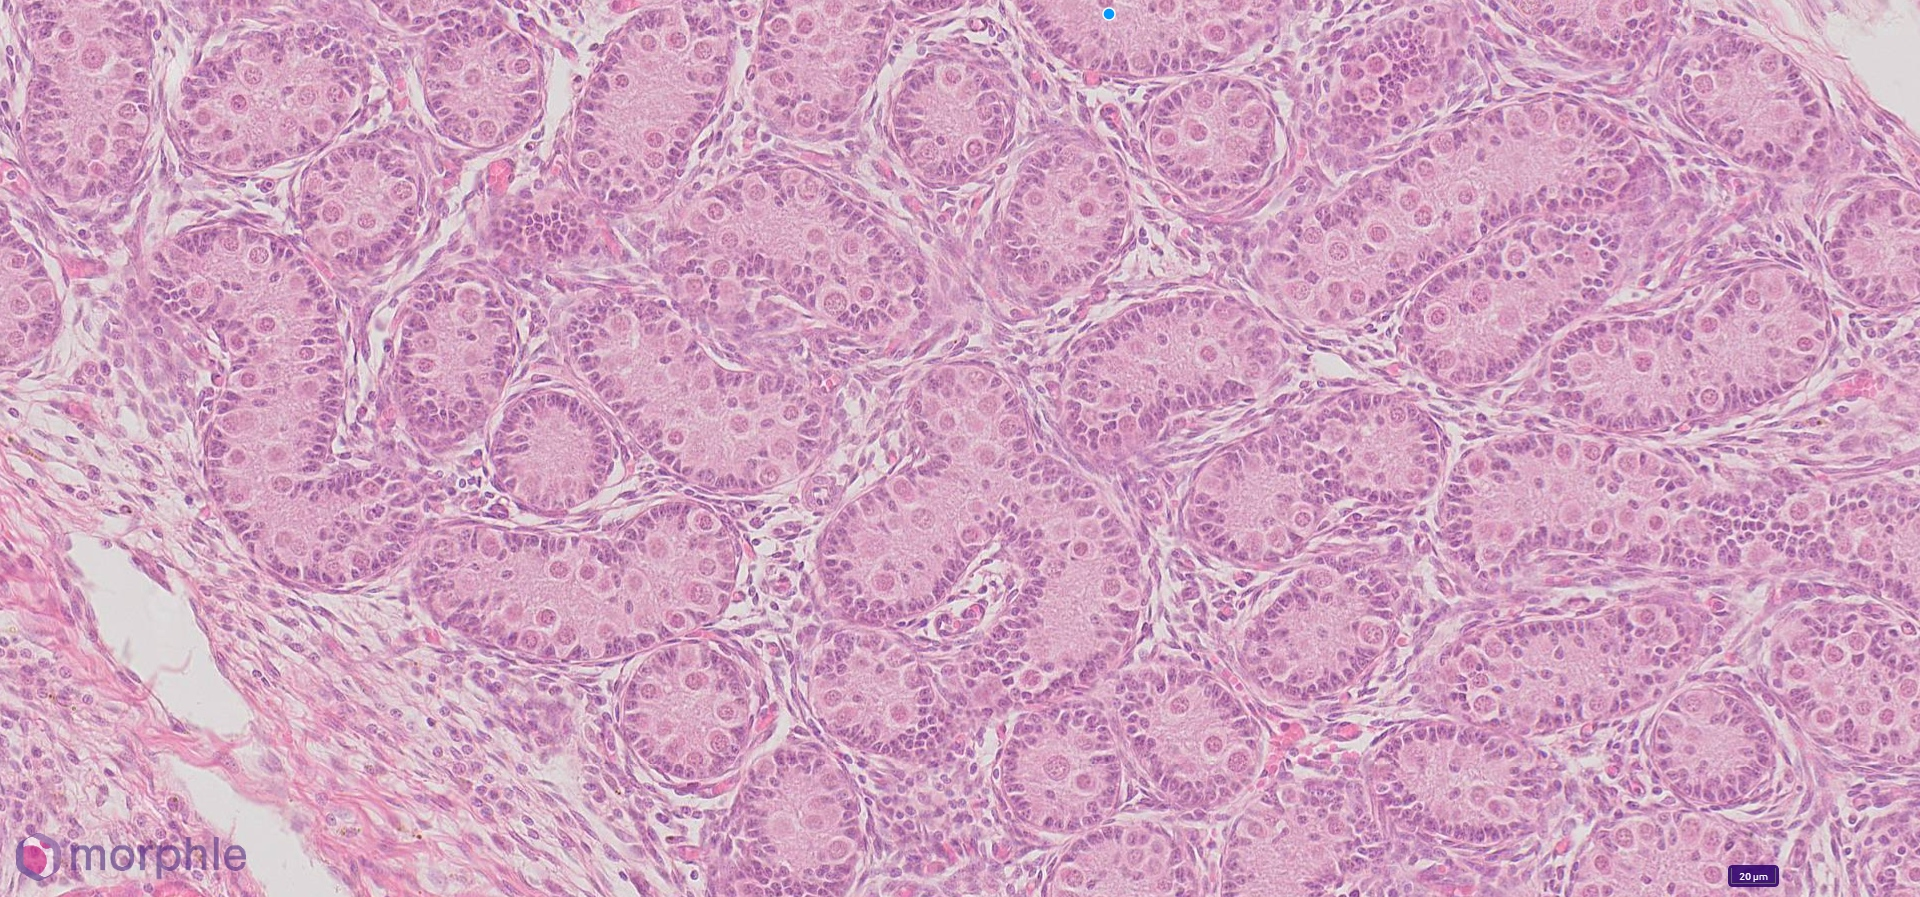
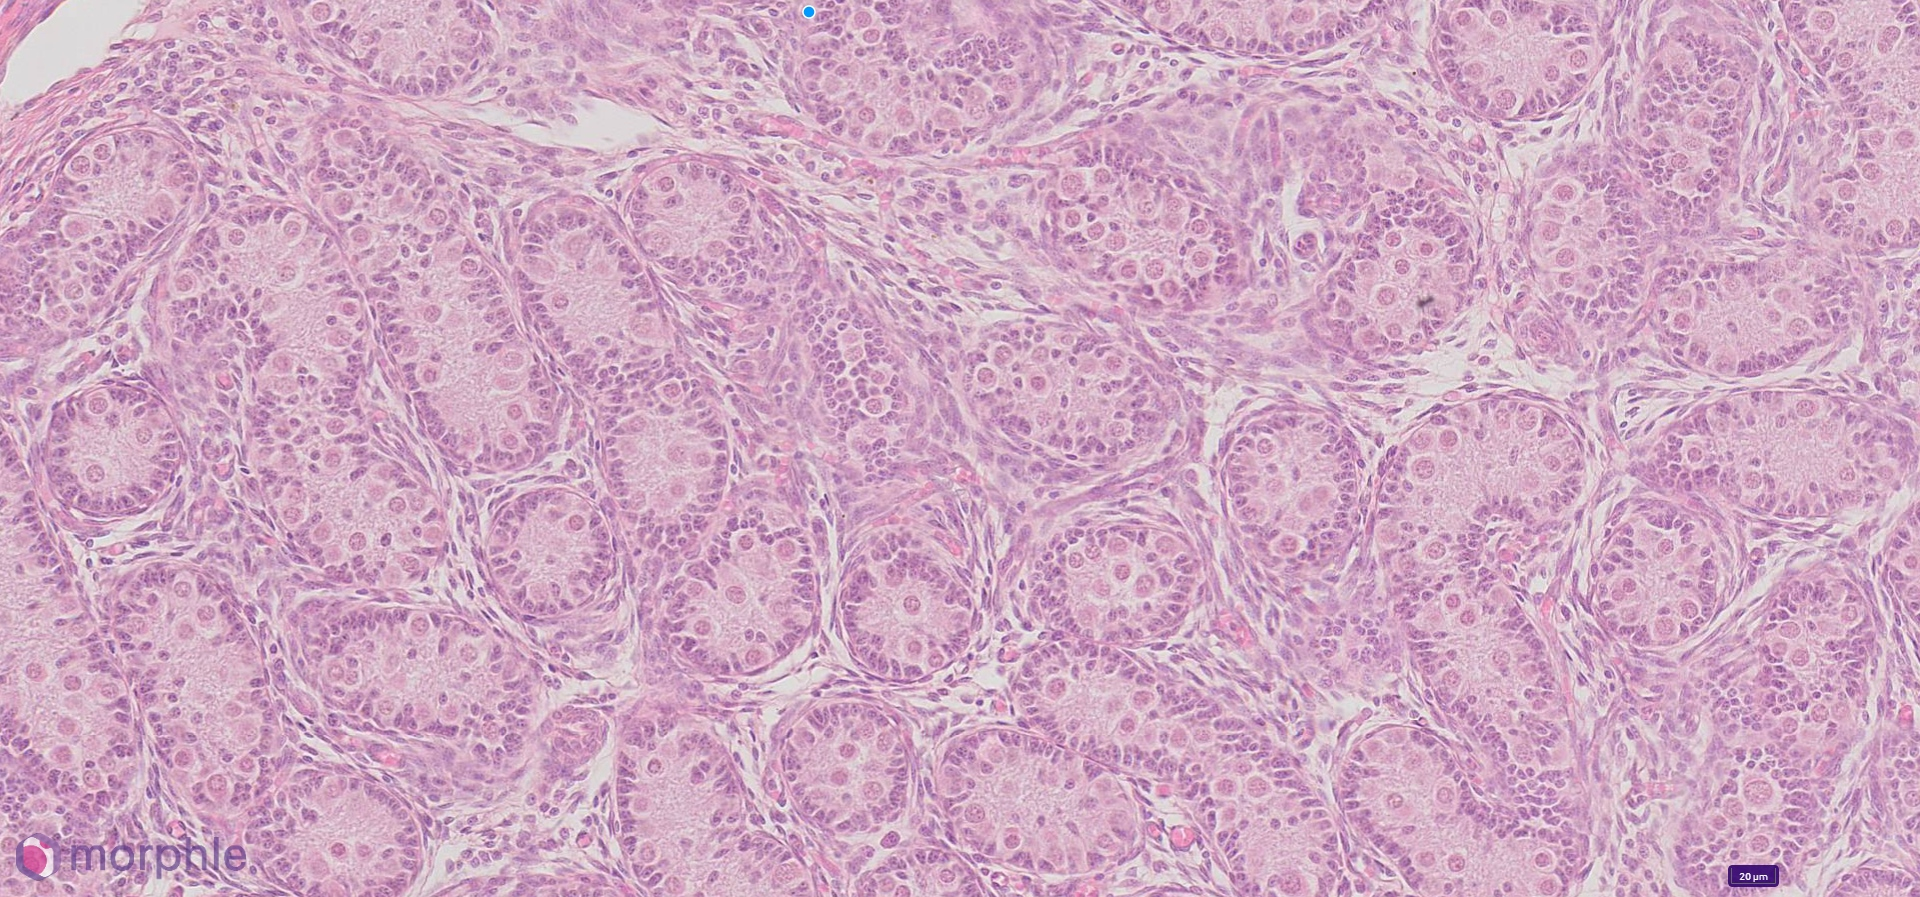
add multiple reference image support

diff --git a/persam_f_multi_obj.py b/persam_f_multi_obj.py
@@ -29,7 +29,7 @@ def get_arguments():
     parser.add_argument('--train_epoch_outside', type=int, default=1)
     parser.add_argument('--train_epoch_inside', type=int, default=200)
     parser.add_argument('--log_epoch', type=int, default=200)
-    parser.add_argument('--training_percentage', type=float, default=0.5)
+    parser.add_argument('--training_size', type=int, default=1)
     
     parser.add_argument('--max_objects', type=int, default=10)
     parser.add_argument('--iou_threshold', type=float, default=0.8)
@@ -52,7 +52,7 @@ def main():
     if not os.path.exists('./outputs/'):
         os.mkdir('./outputs/')
     
-    for obj_name in os.listdir(images_path):
+    for obj_name in [f for f in os.listdir(images_path) if not f.startswith('.')]:
         persam_f(args, obj_name, images_path, masks_path, output_path)
 
 
@@ -74,12 +74,12 @@ def persam_f(args, obj_name, images_path, masks_path, output_path):
         param.requires_grad = False
     predictor = SamPredictor(sam)
 
+    target_feats_list = [] # store target features of training examples
     print("\n------------> Segment " + obj_name)
     for i in tqdm(range(args.train_epoch_outside)):
         output_path = os.path.join(output_path, obj_name)
         os.makedirs(output_path, exist_ok=True)
-        training_size = int(len(os.listdir(os.path.join(images_path, obj_name)))  * args.training_percentage)
-        for ref_idx in range(training_size):
+        for ref_idx in range(args.training_size):
             # Path preparation
             ref_image_path = os.path.join(images_path, obj_name, '{:02}.jpg'.format(ref_idx))
             ref_mask_path = os.path.join(masks_path, obj_name, '{:02}.png'.format(ref_idx))
@@ -109,6 +109,8 @@ def persam_f(args, obj_name, images_path, masks_path, output_path):
             target_feat_mean = target_feat.mean(0)
             target_feat_max = torch.max(target_feat, dim=0)[0]
             target_feat = (target_feat_max / 2 + target_feat_mean / 2).unsqueeze(0)
+            
+            target_feats_list.append(target_feat)
 
             # Cosine similarity
             h, w, C = ref_feat.shape
@@ -170,6 +172,9 @@ def persam_f(args, obj_name, images_path, masks_path, output_path):
         print('LR: {:.6f}, Dice_Loss: {:.4f}, Focal_Loss: {:.4f}'.format(current_lr, dice_loss.item(), focal_loss.item()))
 
     print('======> Start Testing')
+    # Average all reference example features to get a "general" target feature embedding
+    target_feat = torch.stack(target_feats_list).mean(0).unsqueeze(0)
+    target_feat = target_feat / target_feat.norm(dim=-1, keepdim=True)
     for test_idx in tqdm(range(len([f for f in os.listdir(test_images_path) if not f.startswith('.')]))):
 
         # Load test image

diff --git a/README.md b/README.md
@@ -19,13 +19,15 @@ datadir/
 |–– Annotations/
 |   |–– Object1/
 |       |–– 00.png
+|       |–– 01.png
 |–– Images/
     |–– Object1/
         |–– 00.jpg
         |–– 01.jpg
+        |–– 02.jpg
         |–– ...
 ```
-Note that only one reference image with annotations needs to be provided (image index 00). Output will include inference on all images in `Images/`.
+Note that only one reference image WITH annotations needs to be provided (image index `00`) to be used as the training example. Output will include inference on all images in `Images/`. In the above example directory, `00` and `01` can be used for training, but `02` is only for testing.
 
 `cellulartestdata` has been provided as a sample.
 
@@ -34,7 +36,7 @@ Note that only one reference image with annotations needs to be provided (image 
 For our use case identifying structures in whole slide images, we use the multi-object segmentation script.
 
 ```bash
-python persam_f_multi_obj.py --data "./cellulartestdata" --max_objects 50 --outdir "celldata"
+python persam_f_multi_obj.py --data "./cellulartestdata" --max_objects 50 --training_size 2 --outdir "celldata"
 ```
 #### Args:
 ```bash
@@ -44,7 +46,12 @@ python persam_f_multi_obj.py --data "./cellulartestdata" --max_objects 50 --outd
 --sam_type <model name>
 --max_objects <max number of objects to segment>
 --iou_threshold <threshold for detecting if a segmentation is a duplicate>
+--training_size <number of training examples>
 ```
+
+*iou_threshold is worth playing with. IoU = intersection area / union area. The algorithm computes this value between a new mask and all old masks, throwing out new masks when the value is over threshold FINISH ME *
+
+*Note that `training_size` is a custom parameter, not part of the original PerSAM. Only works for `persam_f_multi_obj`. Default is 1, if you change this value you must provide the according number of reference image+annotation examples or else unexpected behavior. (for now)*
 
 After running, the output masks and visualizations will be stored at `outputs/<output filename>`. 
 
